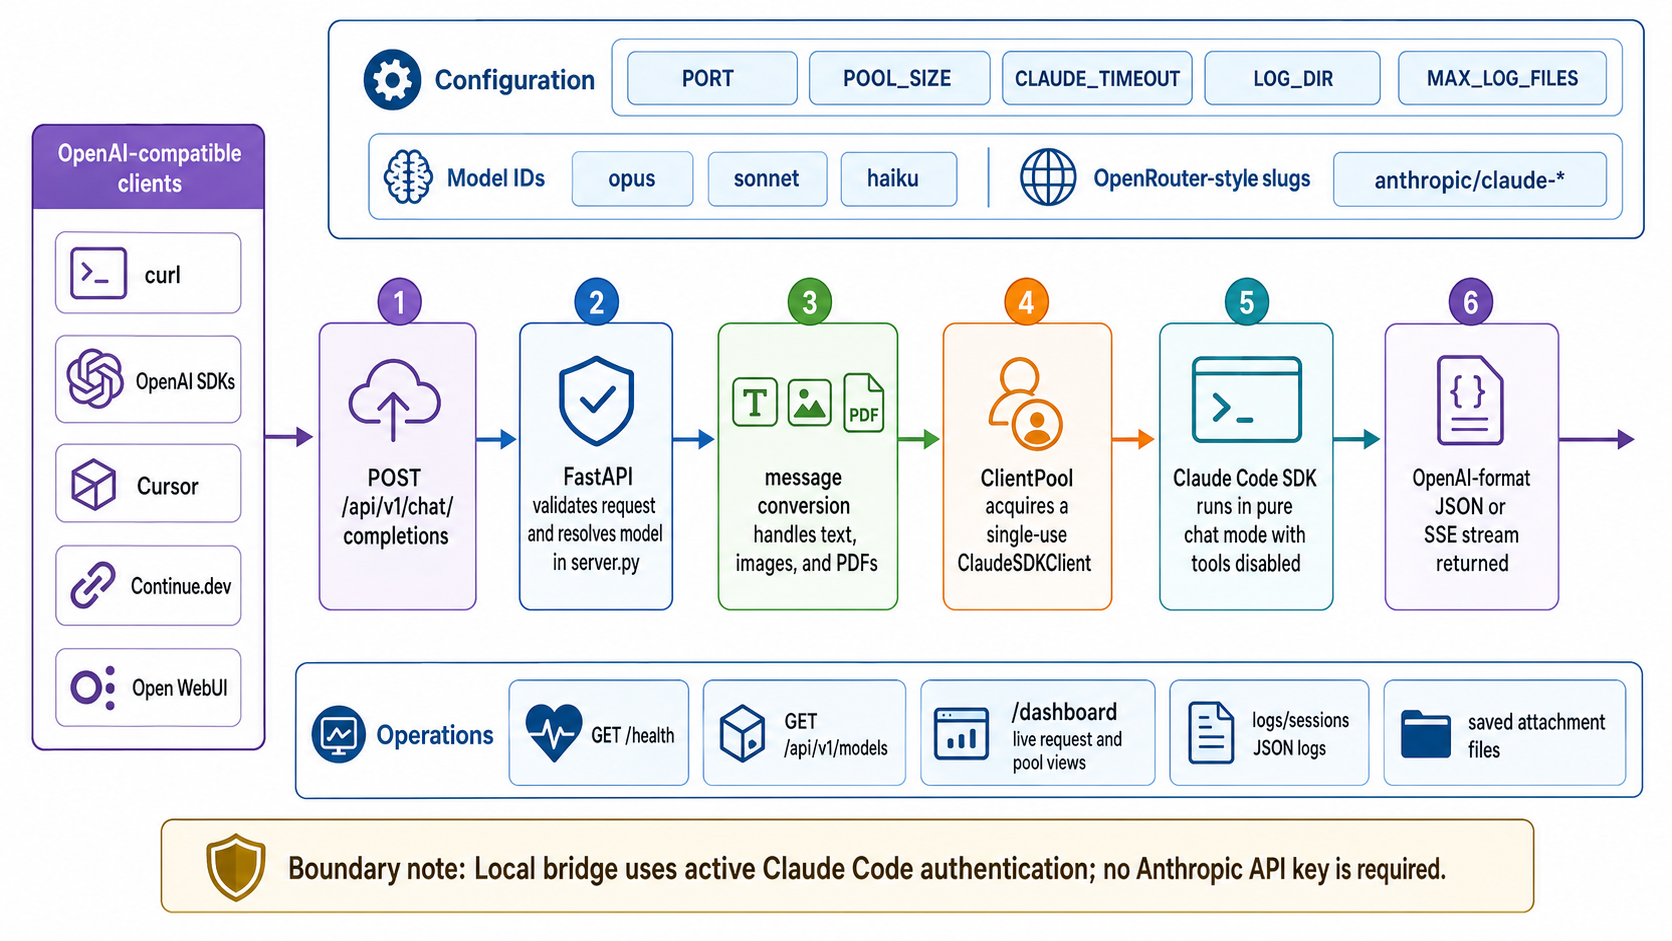
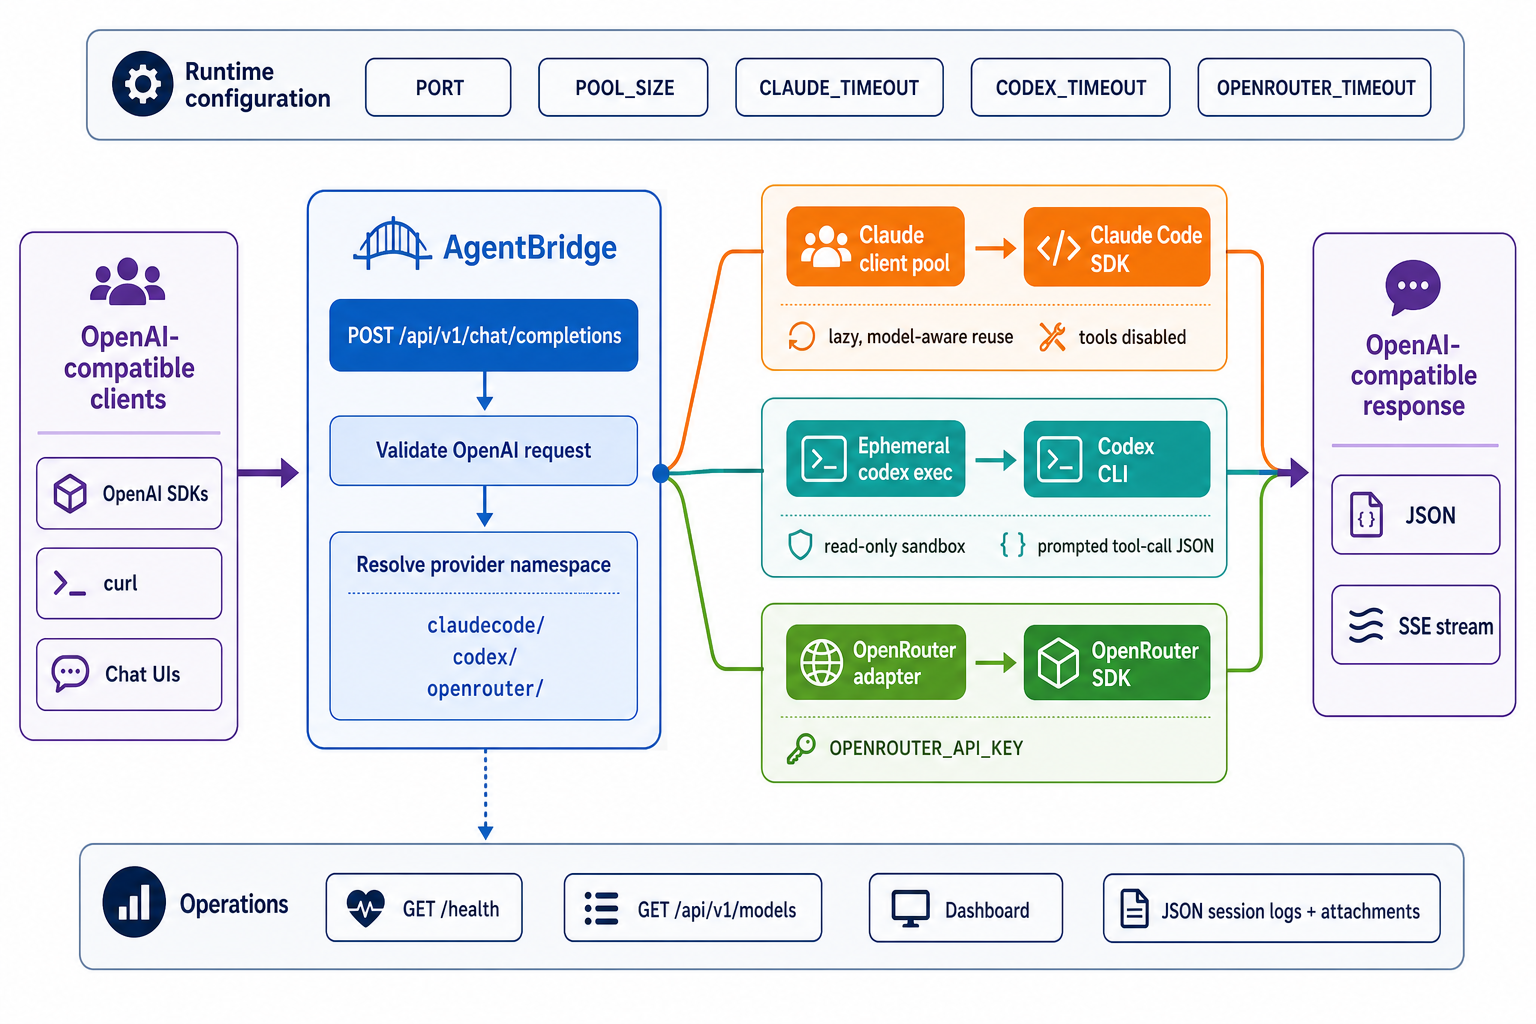
Improve README and architecture diagram

Changed region(s): [[0.0, 0.0, 1.0, 0.9862]]

diff --git a/README.md b/README.md
@@ -4,30 +4,37 @@
   **🌉 Bridge OpenAI tools to Claude Code SDK, Codex CLI, or OpenRouter — use your subscriptions anywhere 🔌**
 </div>
 
-agentbridge is a local OpenAI-compatible API server with provider adapters for Claude Code SDK, Codex CLI, and OpenRouter. It lets tools that already speak the OpenAI Chat Completions API use your active local logins or OpenRouter API key through `http://localhost:8082/api/v1`.
+agentbridge is a local API bridge for developers who want to connect OpenAI-compatible apps to Claude Code, Codex, or OpenRouter. Run one server, choose a backend with a namespaced model ID, and point existing Chat Completions clients at `http://localhost:8082/api/v1`.
 
-It supports non-streaming and streaming chat completions, multimodal image/PDF inputs for Claude, image inputs for Codex, namespaced provider model IDs, a small live dashboard, and JSON session logs for debugging.
+It supports streaming and non-streaming responses, image and PDF inputs where the backend accepts them, OpenAI-style tool calls, a live dashboard, and local JSON session logs.
 
-> **Legal notice:** agentbridge can use Claude Code SDK and Codex CLI access through your local subscriptions, and can also forward requests to OpenRouter when configured. Whether this is allowed under the relevant service terms is your responsibility to evaluate. Use it conservatively and at your own risk.
+> **Legal notice:** agentbridge can use Claude Code SDK and Codex CLI access through your local subscriptions, and can forward requests to OpenRouter when configured. You are responsible for determining whether your use complies with each service's terms. Use it conservatively and at your own risk.
 
 ## Install
 
 ```bash
 uv tool install agentbridge-py
-claude login
-codex login
 agentbridge
 ```
 
-Open [http://localhost:8082/dashboard](http://localhost:8082/dashboard), use Chat at [http://localhost:8082/dashboard/chat](http://localhost:8082/dashboard/chat), or point an OpenAI-compatible client at `http://localhost:8082/api/v1`.
+Open the [dashboard](http://localhost:8082/dashboard), try the built-in [chat](http://localhost:8082/dashboard/chat), or use `http://localhost:8082/api/v1` as an OpenAI-compatible base URL.
 
-Install from source when working on the repo:
+Authenticate at least one backend before sending requests:
+
+```bash
+claude login    # for claudecode/* models
+codex login     # for codex/* models
+```
+
+For OpenRouter, start agentbridge once and add `OPENROUTER_API_KEY` to `~/.config/agentbridge/.env`.
+
+To work on the repository itself:
 
 ```bash
 git clone https://github.com/tsilva/agentbridge.git
 cd agentbridge
-uv pip install -e .
-agentbridge
+uv sync --extra test
+uv run agentbridge
 ```
 
 ## Usage
@@ -35,48 +42,25 @@ agentbridge
 ```bash
 curl http://localhost:8082/api/v1/chat/completions \
   -H "Content-Type: application/json" \
-  -d '{"model": "claudecode/sonnet", "messages": [{"role": "user", "content": "Hello!"}]}'
+  -d '{"model":"claudecode/sonnet","messages":[{"role":"user","content":"Hello!"}]}'
 ```
 
-```bash
-curl http://localhost:8082/api/v1/chat/completions \
-  -H "Content-Type: application/json" \
-  -d '{"model": "codex/gpt-5.6-sol", "reasoning_effort": "high", "messages": [{"role": "user", "content": "Hello!"}]}'
-```
+Every request requires one of these model namespaces:
 
-```bash
-# On first start, agentbridge creates ~/.config/agentbridge/.env.
-# Put OPENROUTER_API_KEY=sk-or-... there, or set it in the process environment.
-agentbridge
-curl http://localhost:8082/api/v1/chat/completions \
-  -H "Content-Type: application/json" \
-  -d '{"model": "openrouter/anthropic/claude-sonnet-4", "messages": [{"role": "user", "content": "Hello!"}]}'
-```
+- `claudecode/<model>` — `opus`, `sonnet`, `haiku`, or a namespaced Claude slug containing one of those names.
+- `codex/<model>` — passed directly to Codex CLI. `gpt-5.6-sol` and `gpt-5.5` default to high reasoning effort unless the request overrides it.
+- `openrouter/<provider>/<model>` — passed to the official OpenRouter Python SDK.
+
+OpenAI SDKs may use any placeholder API key:
 
 ```python
 from openai import OpenAI
 
-client = OpenAI(
-    base_url="http://localhost:8082/api/v1",
-    api_key="not-needed",
-)
-
-response = client.chat.completions.create(
-    model="claudecode/anthropic/claude-sonnet-4",
-    messages=[{"role": "user", "content": "Hello!"}],
-)
-print(response.choices[0].message.content)
-
+client = OpenAI(base_url="http://localhost:8082/api/v1", api_key="not-needed")
 response = client.chat.completions.create(
     model="codex/gpt-5.6-sol",
     reasoning_effort="high",
     messages=[{"role": "user", "content": "Hello from Codex!"}],
-)
-print(response.choices[0].message.content)
-
-response = client.chat.completions.create(
-    model="openrouter/anthropic/claude-sonnet-4",
-    messages=[{"role": "user", "content": "Hello from OpenRouter!"}],
 )
 print(response.choices[0].message.content)
 ```
@@ -84,38 +68,30 @@ print(response.choices[0].message.content)
 ## Commands
 
 ```bash
-agentbridge                         # start on http://127.0.0.1:8082
-agentbridge --port 8083             # choose another port
-agentbridge -w 3                    # run with three pooled workers
-agentbridge --version               # print package and git version
-uv tool install . --force --no-cache # reinstall local source build
-uv run --extra test pytest           # run tests
+agentbridge                                           # start on 127.0.0.1:8082
+agentbridge --port 8083                               # choose another port
+agentbridge --workers 3                               # set Claude pool and Codex concurrency to 3
+agentbridge --version                                 # print package and git version
+uv run --frozen --extra test pytest -q                # run tests
+uv run --frozen --extra test ruff check agentbridge tests  # lint Python
+uv lock --check                                       # verify the lockfile
+uv build                                              # build wheel and source distribution
 ```
-
-## Publishing
-
-Publishing to PyPI runs through the `Release` GitHub Actions workflow and targets the `agentbridge-py` project. Configure PyPI Trusted Publishing for:
-
-- Owner: `tsilva`
-- Repository: `agentbridge`
-- Workflow: `release.yml`
-- Environment: `pypi`
-
-No PyPI API token is required. The workflow builds the package, verifies the built project metadata is `agentbridge-py`, creates the GitHub release, then publishes `dist/` to PyPI.
 
 ## Notes
 
-- Requires Python 3.12+ and at least one authenticated backend: `claude login` for Claude Code models, `codex login` for Codex models, or `OPENROUTER_API_KEY` for OpenRouter models.
-- Endpoints: `POST /api/v1/chat/completions`, `GET /api/v1/models`, `GET /health`, `/dashboard`, and `/dashboard/chat`.
-- Model IDs must be prefixed with an AgentBridge provider namespace: `claudecode/<model>`, `codex/<model>`, or `openrouter/<provider>/<model>`.
-- Claude Code model inputs are `claudecode/opus`, `claudecode/sonnet`, `claudecode/haiku`, or namespaced slugs containing those names, such as `claudecode/anthropic/claude-sonnet-4`.
-- Codex model inputs are `codex/<model>`. The requested model is passed directly to Codex CLI; `codex/gpt-5.6-sol` and `codex/gpt-5.5` default to `reasoning_effort="high"` unless the request sets another effort.
-- OpenRouter model inputs are `openrouter/<provider>/<model>`, for example `openrouter/anthropic/claude-sonnet-4`. The upstream model ID after `openrouter/` is passed through the official OpenRouter Python SDK.
-- User configuration lives in `~/.config/agentbridge/`. AgentBridge creates `~/.config/agentbridge/.env` on startup for local keys such as `OPENROUTER_API_KEY`; process environment variables still take precedence. Set `AGENTBRIDGE_CONFIG_DIR` to move this directory.
-- `PORT`, `POOL_SIZE`, `CLAUDE_TIMEOUT`, `CODEX_TIMEOUT`, `OPENROUTER_TIMEOUT`, `OPENROUTER_API_KEY`, `LOG_DIR`, and `MAX_LOG_FILES` control local runtime behavior. `POOL_SIZE` defaults to `1`; an explicit `--workers` value overrides it.
-- Claude SDK clients are created lazily for the requested model and reused from an idle pool capped by `POOL_SIZE`; no Claude clients are warmed at server boot. Each Codex request runs an ephemeral `codex exec` process in an isolated temporary directory.
-- Claude Code tools are disabled for SDK sessions. Codex runs with read-only sandboxing, no approvals, ephemeral sessions, and ignored project rules. OpenAI-style function calling is emulated by prompting for JSON tool-call output.
-- Session logs are written as JSON under `~/.config/agentbridge/logs/sessions` by default; base64 image and PDF attachments are saved beside their request logs. `LOG_DIR` overrides this.
+- Python 3.12+ and at least one authenticated backend are required.
+- Public routes are `POST /api/v1/chat/completions`, `GET /api/v1/models`, `GET /health`, `/dashboard`, and `/dashboard/chat`.
+- `PORT`, `POOL_SIZE`, `CLAUDE_TIMEOUT`, `CODEX_TIMEOUT`, and `OPENROUTER_TIMEOUT` control the server port, pool size, and provider timeouts. `--workers` overrides `POOL_SIZE`.
+- `AGENTBRIDGE_CONFIG_DIR` moves the user configuration directory. `LOG_DIR` moves session logs, and `MAX_LOG_FILES` limits retained JSON logs.
+- `OPENROUTER_API_KEY`, `OPENROUTER_SITE_URL`, and `OPENROUTER_APP_NAME` configure OpenRouter requests. Process environment variables take precedence over the user `.env` file.
+- Claude clients are created lazily, reused by model, and capped by the worker count. Claude sessions do not load filesystem settings and run with built-in tools disabled.
+- Codex runs one ephemeral `codex exec` process per request in a temporary directory with read-only sandboxing, no approvals, and project rules ignored.
+- Claude and Codex function calls are represented through prompted JSON; OpenRouter tool calls pass through its SDK. Session logs and extracted image or PDF attachments are saved under `~/.config/agentbridge/logs/sessions` by default.
+
+## Publishing
+
+Releases use the `Release` GitHub Actions workflow and PyPI Trusted Publishing for the `agentbridge-py` project. The publisher is scoped to owner `tsilva`, repository `agentbridge`, workflow `release.yml`, and environment `pypi`; no PyPI API token is required.
 
 ## Architecture
 
